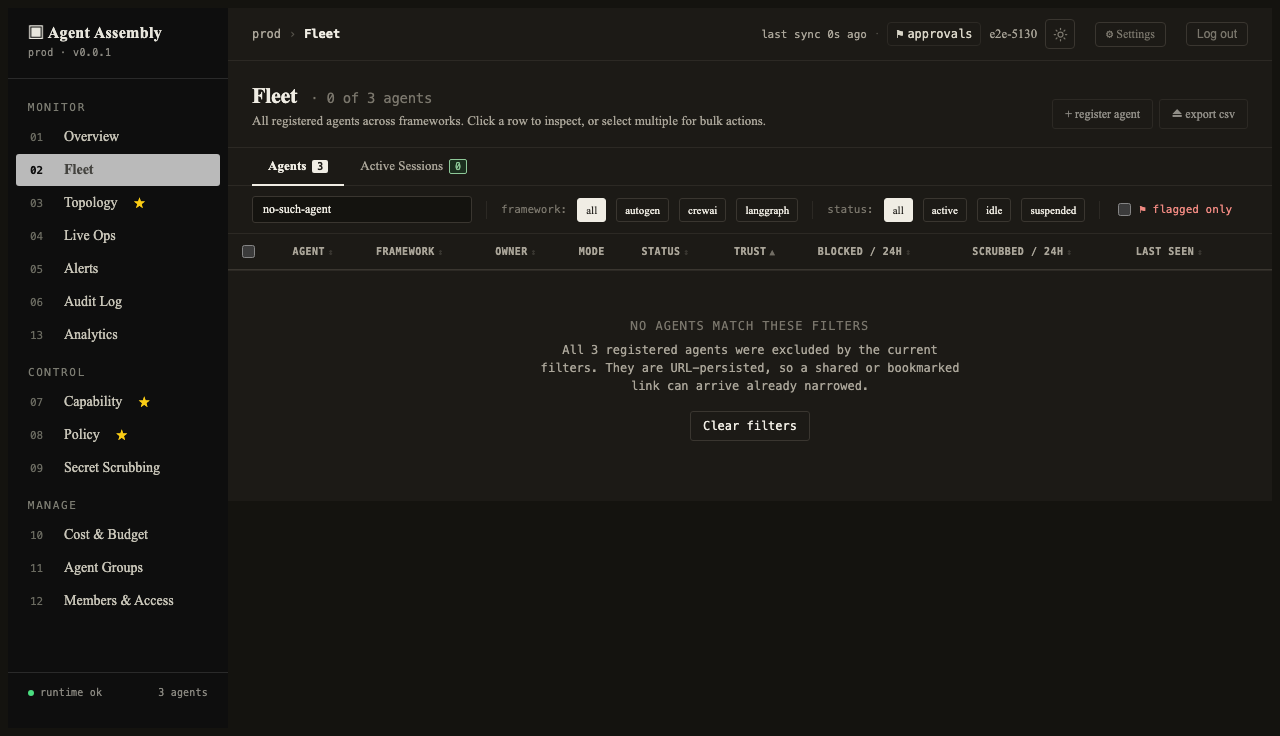
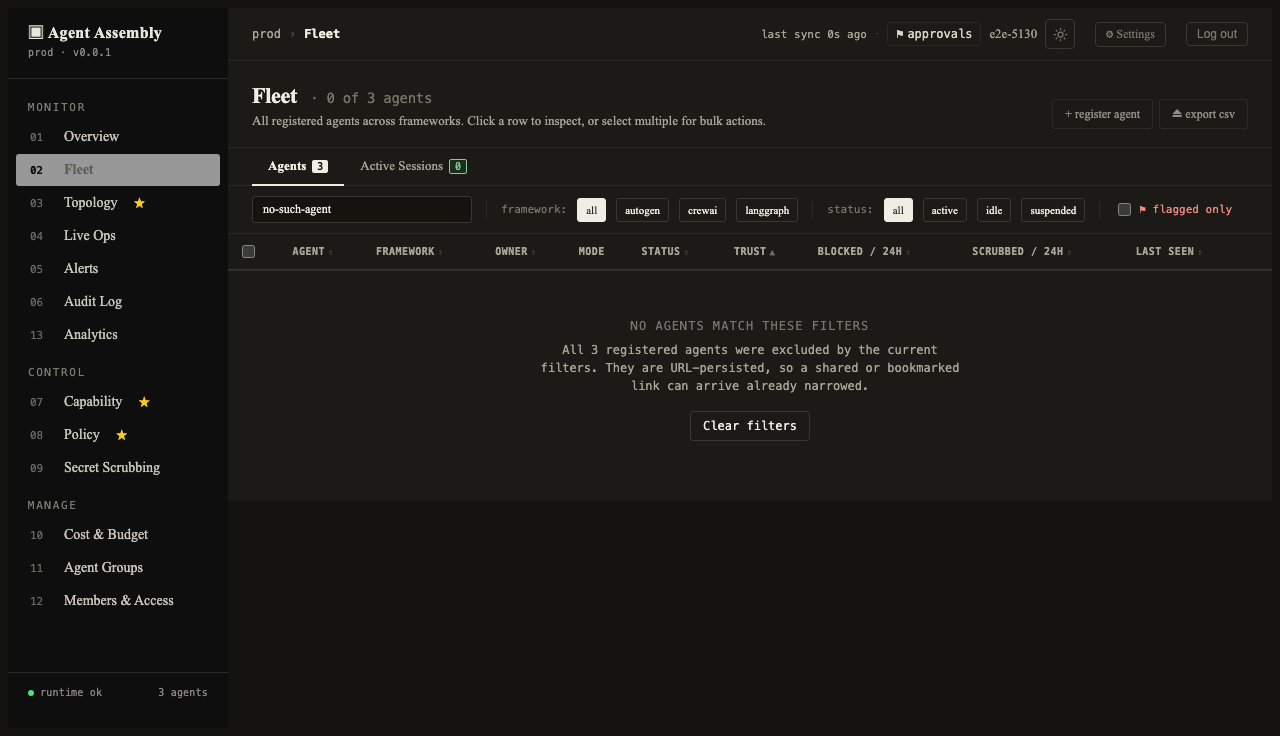
🚨 (dashboard): Use <output> for the Fleet filtered-empty callout
typescript:S6819 — <output> carries the implicit status role and is
announced on devices where an explicit role="status" is not. Needs
display:block because <output> is inline by default.

Refs AAASM-5130

Changed region(s): [[0.0, 0.1875, 0.1875, 0.25]]

diff --git a/dashboard/src/pages/FleetPage.tsx b/dashboard/src/pages/FleetPage.tsx
@@ -579,7 +579,7 @@ export function FleetPage() {
             </tbody>
           </table>
           {tableState === 'filter-empty' && (
-            <div className="fleet-empty fleet-empty--filtered" data-testid="fleet-filter-empty" role="status">
+            <output className="fleet-empty fleet-empty--filtered" data-testid="fleet-filter-empty">
               <p className="fleet-empty__title">no agents match these filters</p>
               <p className="fleet-empty__body">
                 All {totalAgentsText} registered agents were excluded by the current filters.
@@ -595,7 +595,7 @@ export function FleetPage() {
                   Clear filters
                 </button>
               </div>
-            </div>
+            </output>
           )}
         </div>
       )}

diff --git a/dashboard/src/pages/FleetPage.css b/dashboard/src/pages/FleetPage.css
@@ -317,6 +317,9 @@
    callout supplies the sentence the bare headers could not. */
 
 .fleet-empty--filtered {
+  /* `<output>` (implicit role="status", preferred over role="status" per
+     typescript:S6819) is inline by default. */
+  display: block;
   padding: 48px 24px 60px;
   border-top: 1px solid var(--line);
 }
